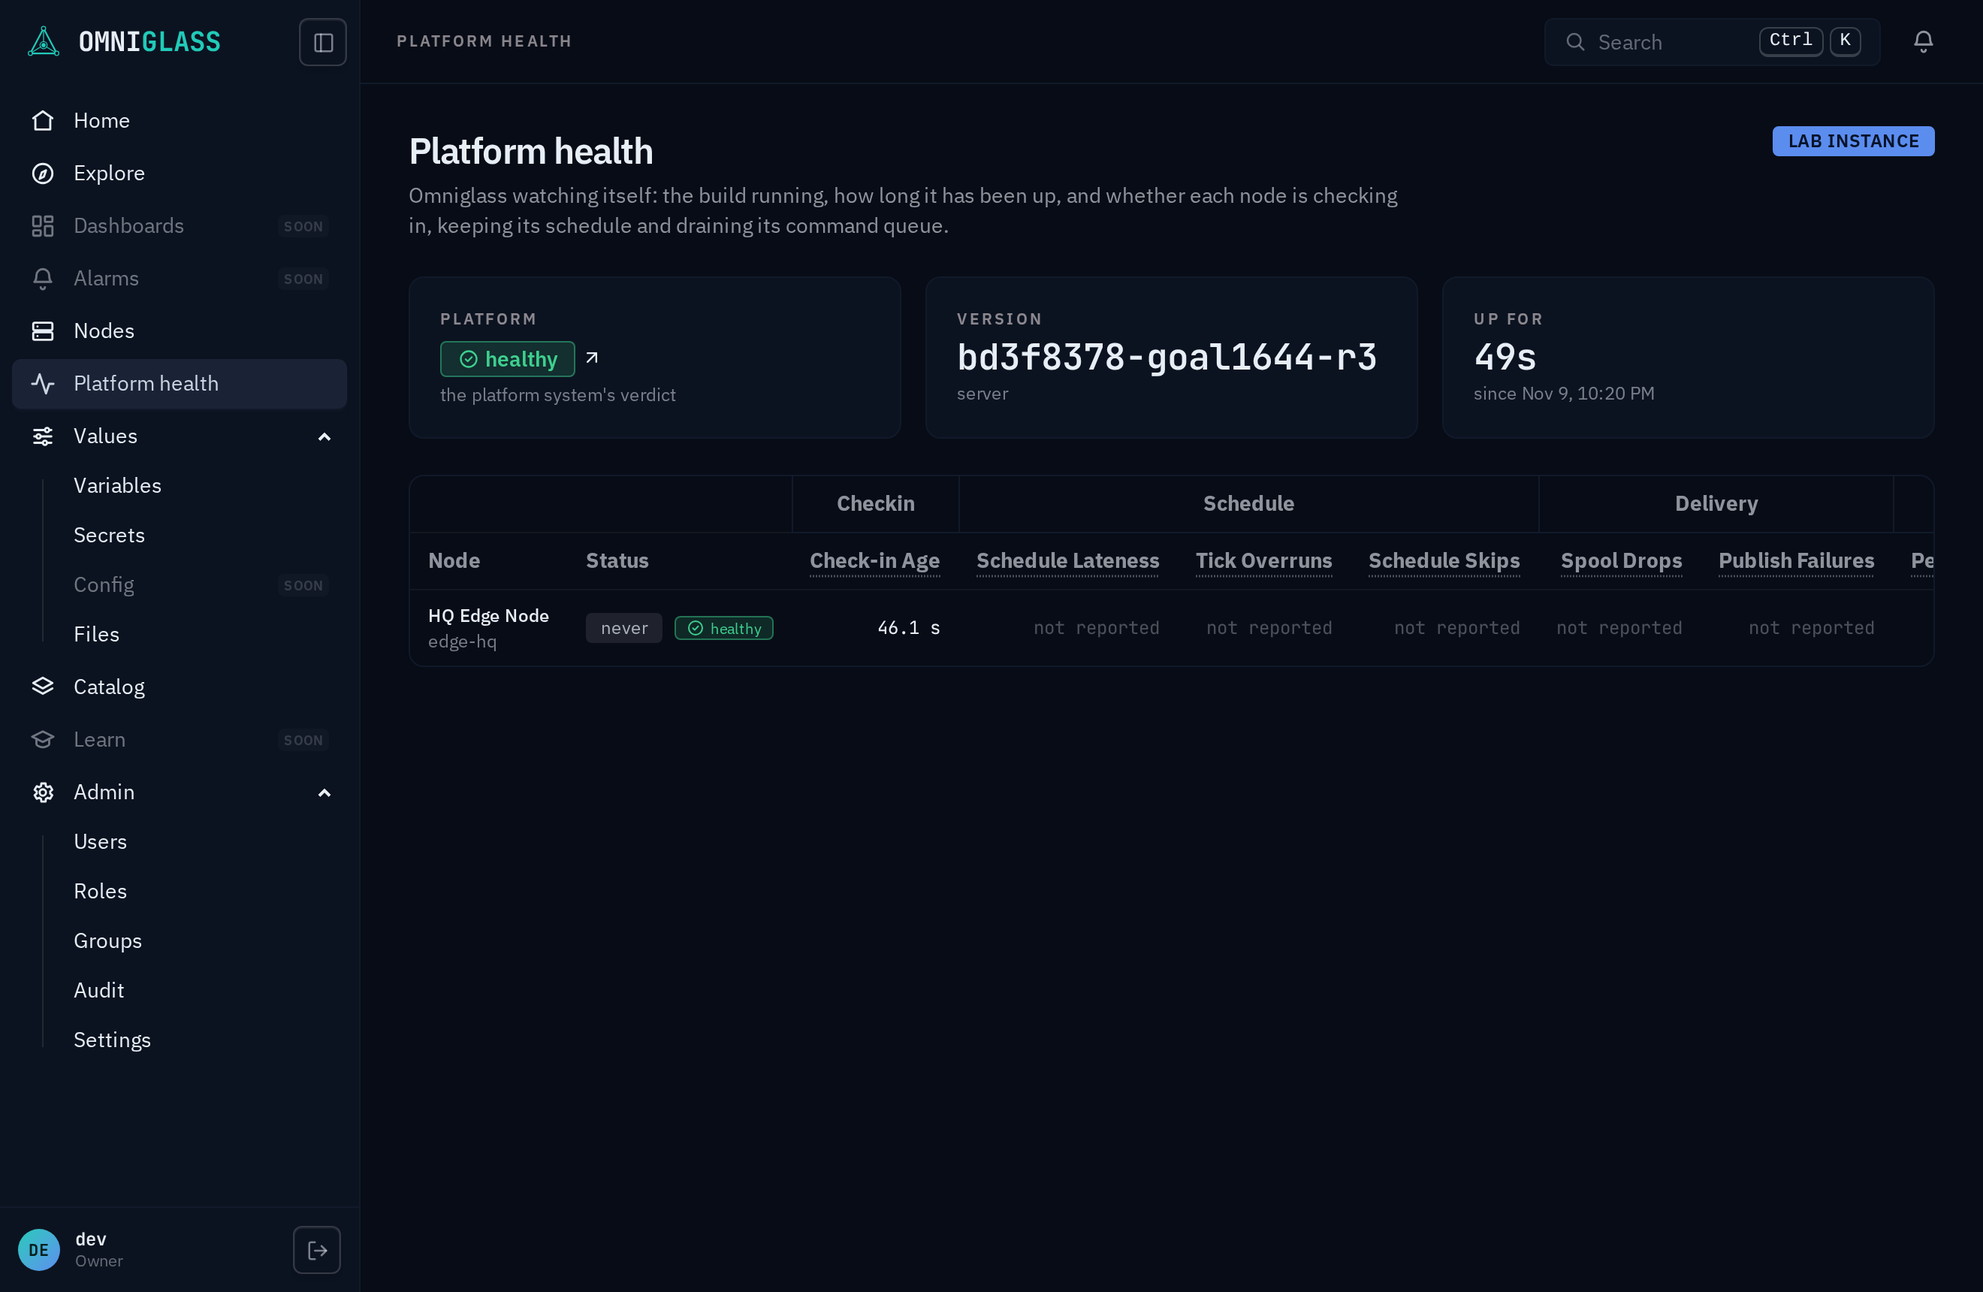
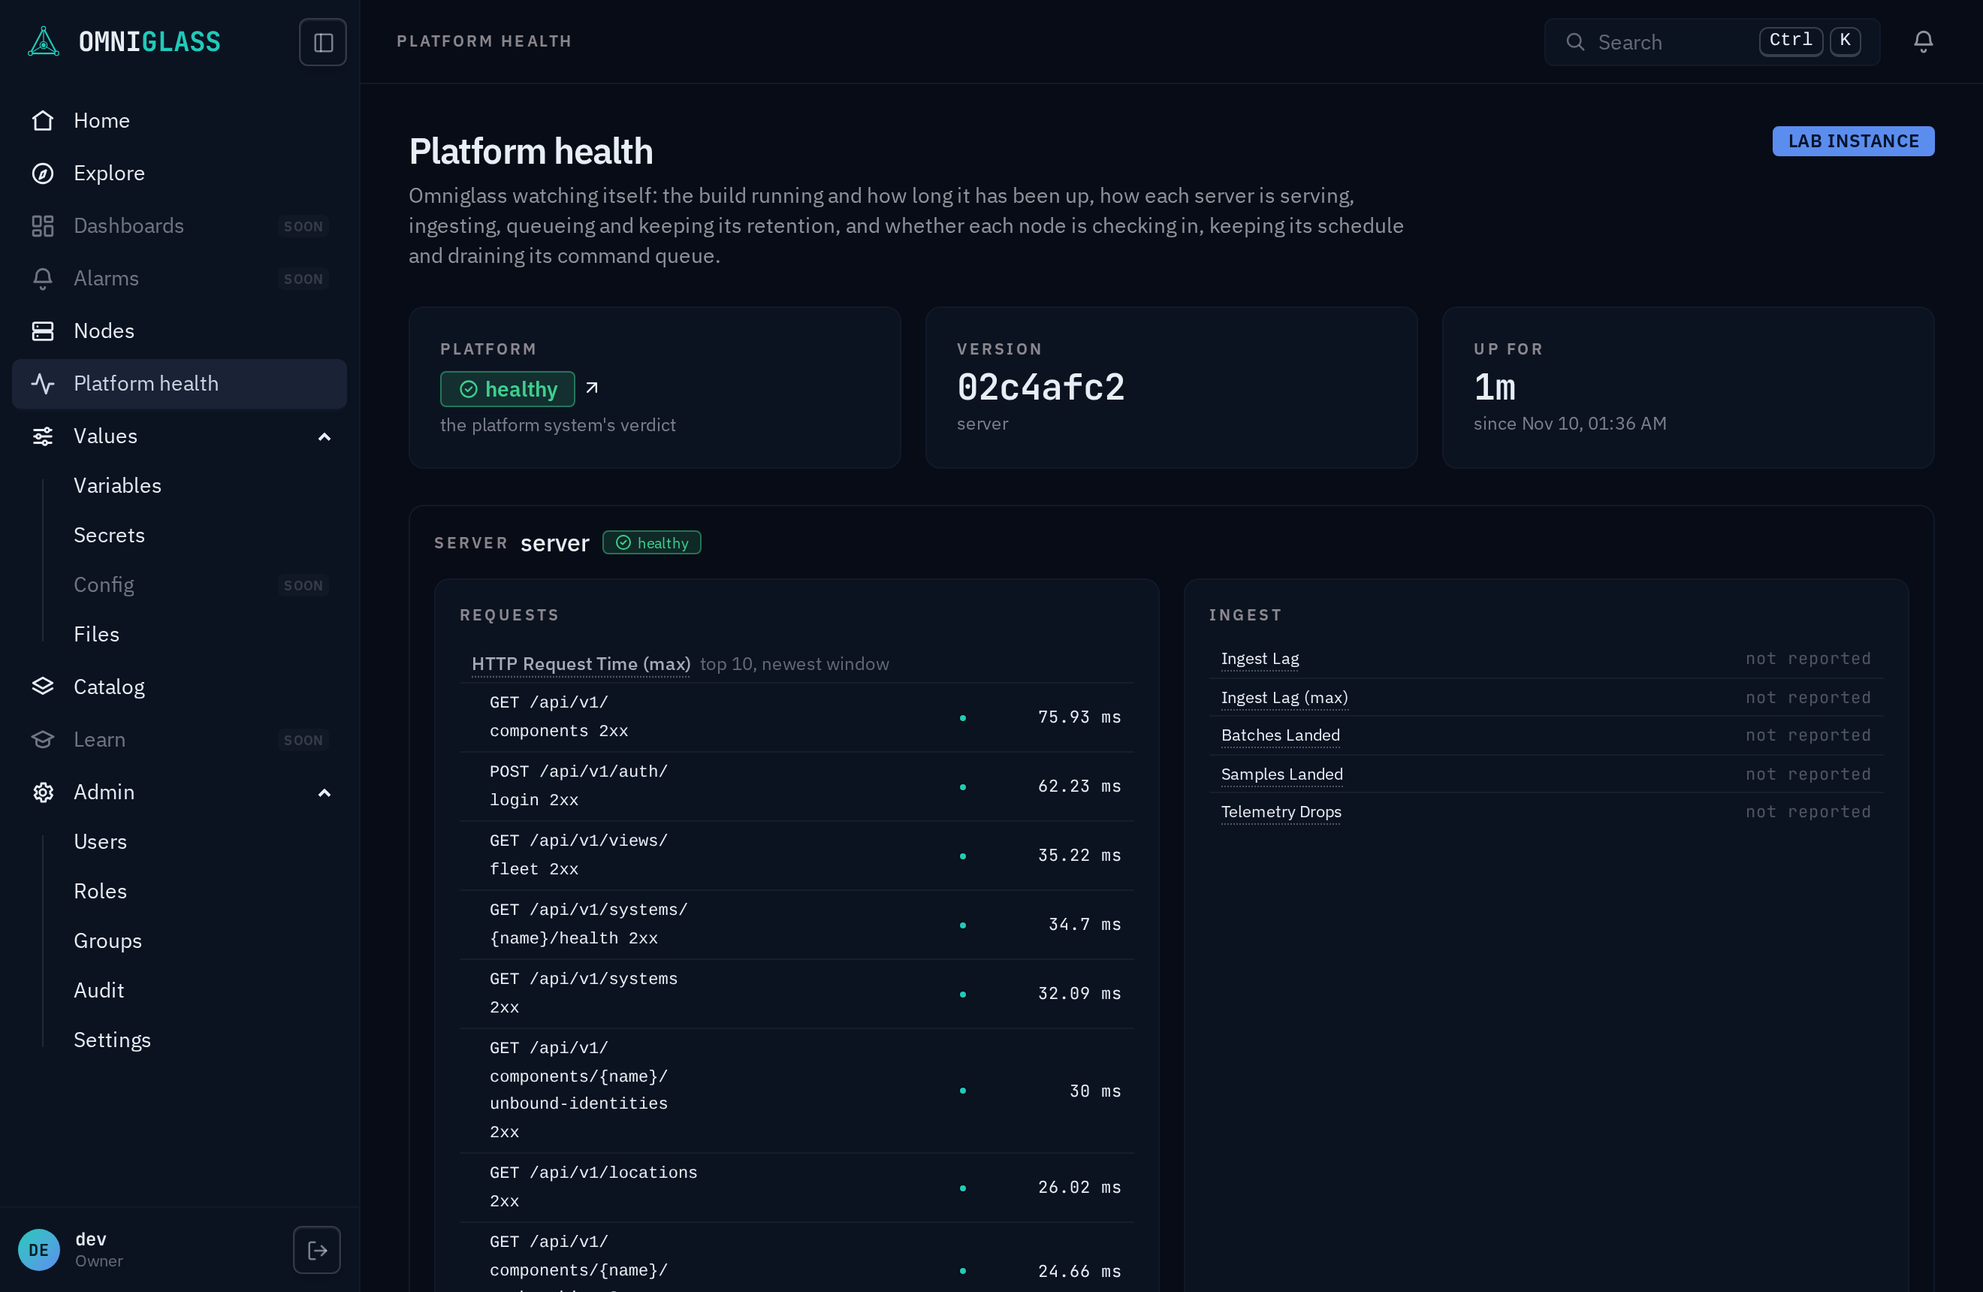
Document each server's panels on Platform health
The guide teaches the Requests, Ingest, Queues and Retention panels from the catalog's keys and the seeded rules, with a shot of the panels and one of the node table under the closed set. The architecture pages, the build log and ADR-1645 record how the view ranks and flags them.

Fixes #1645

diff --git a/docs/src/content/docs/guides/operator/platform-health.md b/docs/src/content/docs/guides/operator/platform-health.md
@@ -1,15 +1,38 @@
 ---
 title: Platform health
-description: "Platform health: whether Omniglass itself is well, from the build it runs and how long it has been up to whether each node is checking in, keeping its schedule and draining its command queue."
+description: "Platform health: whether Omniglass itself is well, from the build it runs and how long it has been up to each server's request timing, ingest lag, queue depths and retention, and whether each node is checking in, keeping its schedule and draining its command queue."
 screenshots:
   # The docs lab runs with no node collecting, so the one node reads never and
   # its only figure is the check-in age the server writes for it. That age, the
   # build and the uptime change with every capture, so they are masked: the
   # header cards whole (a build id and an age, whose width moves with them) and
-  # the check-in cell.
+  # the check-in cell. The server's panels fill at its first report window, a
+  # minute after the lab boots, so each shot waits for the Requests panel's
+  # ranked routes; their figures, and how many routes the window saw, move with
+  # every capture, so the panel grid is masked whole in the baseline.
   - id: platform-health
     path: /web/platform
-    alt: "Platform health: the platform system's verdict linking to its system, the build the server runs and how long it has been up, then a table with one row per node, its liveness pill and verdict, and one column per platform key grouped as Checkin, Schedule, Delivery and Commands."
+    alt: "Platform health: the platform system's verdict linking to its system, the build the server runs and how long it has been up, then the server's panel set open on its Requests, Ingest, Queues and Retention panels, each row a key's last hour as a sparkline beside its current figure, the Requests panel ranking the slowest routes of the newest window."
+    steps:
+      - action: wait
+        selector: "[data-testid=server-panel-requests] tr[data-testid=panel-row-http-request-duration-max][aria-expanded]"
+        timeout: 150000
+    mask:
+      - "[data-testid=platform-version] >> xpath=ancestor::div[3]"
+      - "[data-testid=platform-uptime] >> xpath=ancestor::div[3]"
+      - "[data-testid=server-panels-server] >> xpath=./div"
+  # The node table sits under the server panels, whose height moves with the
+  # routes a window saw, so this shot closes the server's panel set first: the
+  # table then sits at a fixed place under the header and the closed set.
+  - id: platform-health-nodes
+    path: /web/platform
+    alt: "Platform health with the server's panel set closed to its heading, the server's name and verdict, over the node table: one row per node, its liveness pill and verdict, and one column per platform key grouped as Checkin, Schedule, Delivery and Commands."
+    steps:
+      - action: wait
+        selector: "[data-testid=server-panel-requests] tr[data-testid=panel-row-http-request-duration-max][aria-expanded]"
+        timeout: 150000
+      - action: click
+        selector: "[data-testid=server-panels-server] > summary .eyebrow"
     mask:
       - "[data-testid=platform-version] >> xpath=ancestor::div[3]"
       - "[data-testid=platform-uptime] >> xpath=ancestor::div[3]"
@@ -40,7 +63,66 @@ to open it; the tile and the sidebar entry are hidden without it.
   its boot wrote. A restart moves the start time forward.
 - On a lab instance the page says so beside its title.
 
+## The server panels
+
+Each server has a panel set: a disclosure headed with the server's name, its verdict and how many
+alarms are open on it, the first one open. The name links to the server's platform component. The
+four panels are **Requests**, **Ingest**, **Queues** and **Retention**, and the keys in each are the
+groups the platform view returns for a server, so the page holds no key list of its own.
+
+A panel row is one key: its last hour as a sparkline beside its current figure. Click a row to open
+the full chart beneath it, and click again to close it. Hover a key's name, or tab to it, for what
+it measures, the description from the [metrics catalog](/guides/admin/metrics/); the tooltip links
+onto the key's series on the server's platform component, the same component view any device has.
+A key the server has not reported reads **not reported**, never 0, and has no sparkline. A pair
+that only reads against its bound (a pool's connections in use against its size, the oldest
+partition's age against the retention window) reads `a / b`, and byte sizes read in KB, MB or GB.
+
+A panel turns amber, and names the alarm, only while an alarm is open on one of its keys. The seeded
+rules on the server's keys raise those alarms; the page adds no threshold of its own, so an amber
+panel is the same open alarm the console shows everywhere else.
+
+A closed panel set reads no series: its figures are already on the page, and its sparklines load
+when you open it.
+
+### Requests
+
+How the API is answering, measured inside the server for every request by its method, route
+template and status class. The slowest routes and the busiest are each ranked, highest first, as
+the server cut them from its newest report window: a window is a minute by default, so a ranking
+is the last minute's, and a route that went quiet drops off it. Below them sits the database's side
+of a request: the queries that ran past the slow-query threshold, the connection pool in use
+against its size, and the acquires that found the pool exhausted and waited.
+
+### Ingest
+
+How far behind the pipeline that lands telemetry runs. **Ingest Lag** is the time from a sample's
+timestamp to the commit that landed it, averaged over the window's batches, so it reads how stale
+the figures on every other page can be; **Ingest Lag (max)** beside it is the oldest sample's. The
+sample's time is the node's clock, so a node whose clock is skewed reads as lag. Then the batches
+and samples landed in the window, and the batches the server gave up on, one row per reason. An
+oldest sample more than 30 seconds behind for two minutes raises the seeded Ingest lag high alarm,
+which turns this panel amber.
+
+### Queues
+
+What is waiting. The telemetry batches not yet delivered to the server's consumer and those
+delivered but not yet acknowledged, the calculations waiting to run, the outbox's queued effects
+and how long the oldest due one has waited, and the share of the window the telemetry lane spent
+busy. A lane near fully busy with a backlog that only grows is a server that cannot keep up,
+usually before any figure elsewhere moves.
+
+### Retention
+
+Whether old data is dropped on time. **Retention Behind** has a row per lane: 0 when the lane's
+last pass caught up with its window, 1 when it stopped short or failed. A lane that stays at 1
+raises the seeded Retention behind alarm. Beside it, the rows each pass deleted, the oldest metric
+day's age read against the retention window (steady at about the window plus a day once retention
+keeps up), and the database's size with each table's.
+
 ## The node table
+
+::screenshot{#platform-health-nodes}
 
 One row per node. **Status** is the same liveness pill the [Nodes](/guides/operator/collection/)
 page shows (`up`, `down` or `never`), judged at the same moment the uptime is, beside the node's
@@ -79,17 +161,20 @@ Home tile reads the same.
 The platform components belong to no place, so only a fleet-wide (all-scope) read reaches them.
 If your component read is scoped to part of the fleet, the page still lists every node with its
 pill, and one line says the platform figures need a fleet-wide read: the figures are left out, not
-shown as zero. Without a fleet-wide system read the Platform verdict reads `-`.
+shown as zero, and the server panels are left out whole. Without a fleet-wide system read the Platform verdict reads `-`.
 
 ## From the CLI
 
 The page is one read of the platform view, so `omniglass view platform list` returns the same
-answer: the system verdict, each server's build and start time, the key groups, and each node's
-verdict with its current figures. A key a node has not reported is absent from its `figures`,
+answer: the system verdict, each server's build and start time with its panel groups (each key's
+current figure, a ranked key's routes, and the alarms open on the server), the node key groups,
+and each node's verdict with its current figures. A key a node has not reported is absent from its `figures`,
 never zero, so the command reads not-reported the same way the page does.
 
 ## Walkthrough
 
-From Home, open the tile, read the header, and open a node's row onto its platform component.
+From Home, open the tile, read the header, the node table and the server's Requests panel, then
+follow the slowest route's figure from its tooltip onto its series on the server's platform
+component.
 
 ::walkthrough{#read-platform-health}

diff --git a/docs/src/content/decisions/adr-1645-server-panels-rank-in-sql-and-flag-from-the-rule.md b/docs/src/content/decisions/adr-1645-server-panels-rank-in-sql-and-flag-from-the-rule.md
@@ -1,0 +1,50 @@
+---
+title: "Server panels rank in SQL and flag a panel from its alarm's rule"
+date: 2026-11-10
+status: Accepted
+summary: "Accepted: #1645 renders each server's Requests, Ingest, Queues and Retention panels from storage.PlatformServerGroups. Both request keys are ranked, the busiest routes beside the slowest. A panel is flagged by an open alarm whose rule samples one of its keys, matched on the rule's sample_key. Server figures carry no window aging. A ranked key with no window reads as one not-reported row. A key's tooltip leads in-app onto its series. Walkthroughs gained hover and an off-camera ready wait, and docs shots gained a wait step."
+refs: [1645, 1644, 1627, 1628, 1629, 1646]
+---
+
+- **Date:** 2026-11-10 | **Status:** Accepted | **Pages:** [ui](/architecture/ui/), [api](/architecture/api/), [Platform health](/guides/operator/platform-health/)
+- **Decision:**
+  1. **Both request keys are ranked.** The ticket ranked `http-request-duration-max` alone and
+     returned `http-request-count` per instance. A route table is as large for one key as the
+     other, so both are cut in SQL to the ten highest instances of the key's newest time, highest
+     first: the slowest routes and the busiest. `PlatformServerKey.Rank` carries the cut, so a
+     third ranked key is one field in `storage.PlatformServerGroups`.
+  2. **A panel is flagged from its alarm's rule.** An alarm carries no key of its own. The view
+     reads each server's open alarms with the `sample_key` of the rule that raised them, and the
+     page flags the panel that holds that key. A hand-raised alarm, or one whose rule is gone, has
+     no key and flags no panel; it still counts in the server's "open" badge. The page holds no
+     threshold.
+  3. **Server figures carry no window aging.** ADR-1644 shows a node's window count only while its
+     window is the newest. The server's counts need no such filter: the request and slow-query
+     counts write one zero after a window that counted something, and the pipeline and retention
+     figures are written every window or pass. A server figure is its latest sample, per
+     instance, unsummed.
+  4. **A ranked key with no window is one row.** Before the first report window a ranked key has no
+     instance to rank. It reads as a single not-reported row named by the key, not as a heading
+     over an "owner-level" row.
+  5. **Pairs and sizes.** A key read against its bound (`db-pool-acquired` of `db-pool-max`,
+     `metric-oldest-day-age` of `retention-window-days`) prints as `a / b`. Byte figures print in
+     KB, MB or GB. Routes wrap at their slashes.
+  6. **Sparklines read only for an open set.** A closed server panel set asks for no series.
+  7. **The tooltip leads onto the series.** A key's tooltip is its catalog description plus an
+     in-app link to the server's platform component. `InfoTip` gained a same-tab link through the
+     console router, so the link stays under the console's `/web` base.
+  8. **The console e2e pushes a sample.** The lab's empty scenario has no collecting node, so
+     nothing would land in an ingest window. The e2e pushes one telemetry sample, then reads each
+     panel's figure after a report window.
+  9. **Walkthroughs and docs shots learned to wait.** A walkthrough step can now `hover`, and a
+     script can declare `ready`: a page and a target it waits for off camera before recording. The
+     Requests panel fills only after the server's first report window, so this keeps the
+     recording inside its budget. A docs shot step can `wait` for a selector, with a timeout. The
+     panel grid's figures move with every capture, so the gate's baseline masks the grid whole.
+  10. **The walkthrough follows a server figure.** It no longer opens a node's row. It opens the
+      Requests panel, rests on the slowest route's key, and follows the tooltip's link to the
+      series on the server's platform component.
+- **Context:** #1644 shipped the page with its node table. #1627, #1628 and #1629 put the server's
+  request, pipeline and retention figures on its platform component, and this slice reads them.
+  Loss stays #1646's ratio. `bus-telemetry-drop-count` prints as its producer's count until #1641
+  folds it into the uniform keys.

diff --git a/docs/src/content/docs/architecture/ui.md b/docs/src/content/docs/architecture/ui.md
@@ -23,9 +23,11 @@ renders it as an ARIA tree, and `lib/location_type_graph.ts` reads what may sit 
 place from `allowed_parent_types`, never from a type's name (ADR-0137). **Platform health**
 (`/platform`, #1644) is the second: Omniglass watching itself, one page over the platform
 projection (`GET /views/platform`) with the running build, its uptime, the platform system's
-verdict and a row per node of its platform figures, each row opening onto the node's platform
-component. Its columns are the groups the view returns, headed with each key's catalog
-description, so the page holds no key list. The views model, the renderer library, and composable
+verdict, a panel set per server (Requests, Ingest, Queues, Retention, #1645: each key's current
+figure beside its last hour, ranked routes as the server cut them, a panel flagged only by an open
+alarm on its keys) and a row per node of its platform figures, each row opening onto the node's
+platform component. Its panels and columns are the groups the view returns, named with each key's
+catalog description, so the page holds no key list. The views model, the renderer library, and composable
 dashboards remain the intended **read side** for the analytical surfaces (alarms, sample
 history, the cascade view, fleet dashboards), not built yet.
 Realized shell: the [design system](/contributing/design-system/); operating it: the

diff --git a/docs/src/content/build-log/2026-11-10-platform-health-shows-each-servers-panels.md b/docs/src/content/build-log/2026-11-10-platform-health-shows-each-servers-panels.md
@@ -1,0 +1,22 @@
+---
+title: "Platform health shows each server's request timing, ingest lag, queues and retention (#1645)"
+date: 2026-11-10
+refs: [1645, 1644, 1627, 1628, 1629, 1646]
+---
+
+[Platform health](/guides/operator/platform-health/) now gives each Omniglass server a panel set:
+**Requests**, **Ingest**, **Queues** and **Retention**. The first set is open. A row is one
+key: its last hour as a sparkline beside its current figure. Click a row to open the full chart. A
+key's tooltip carries its catalog description and a link onto its series on the server's platform
+component.
+
+The panels are groups the platform view returns per server (`storage.PlatformServerGroups`), so
+the page holds no key list. The slowest and the busiest routes are each cut in SQL to the newest
+window's ten, highest first. A panel turns amber only while an alarm is open whose rule samples one
+of its keys, such as Ingest lag high or Retention behind. A key never reported reads not reported,
+and a caller without a fleet-wide component read gets no server panels at all.
+
+Walkthroughs gained a `hover` step and an off-camera `ready` wait. Docs shots gained a `wait` step.
+The divergences from the ticket are
+[ADR-1645](/architecture/decisions/#adr-1645-server-panels-rank-in-sql-and-flag-from-the-rule).
+The loss view across hops is #1646.

diff --git a/docs/src/content/docs/architecture/api.md b/docs/src/content/docs/architecture/api.md
@@ -1163,8 +1163,9 @@ earns its own tier only when composing the entity reads in the browser would be 
   the wire is pinned by test against being widened back into a component list.
 - `GET /views/platform` (`node:read`) is the read behind
   [Platform health](/guides/operator/platform-health/): the platform system's verdict, each
-  server's build and start time, the node table's column groups with each key's catalog facts,
-  and one row per node with its current figure per key (a gauge's latest sample, a
+  server's build and start time with its panel groups (each key's current figure, a ranked key's
+  instances as the server cut its newest window, and the alarms open on the server's keys, #1645),
+  the node table's column groups with each key's catalog facts, and one row per node with its current figure per key (a gauge's latest sample, a
   window count only while its window is the newest), in a fixed number of statements however
   many nodes there are. Its rows are `/nodes`', so a node read short of all-scope is a **403**, as
   `/nodes` answers, never an empty table. The figures, the verdicts and the servers need an

diff --git a/docs/src/content/docs/guides/operator/index.md b/docs/src/content/docs/guides/operator/index.md
@@ -30,7 +30,8 @@ There are two ways to operate, and they are the same API with the same checks be
 - **[Nodes and reachability](/guides/operator/collection/)**: enrolling a collection node,
   adding a protocol-named endpoint to a component, and reading its reachability and events.
 - **[Platform health](/guides/operator/platform-health/)**: whether Omniglass itself is well, the
-  build running and its uptime, and each node's check-in, schedule and command queue.
+  build running and its uptime, each server's request timing, ingest lag, queues and retention,
+  and each node's check-in, schedule and command queue.
 - **[Simulate a fleet](/guides/operator/simulation/)**: running the device simulator beside a node,
   watching the collector reach its devices, exercising and adding a device, and breaking one on
   purpose.
